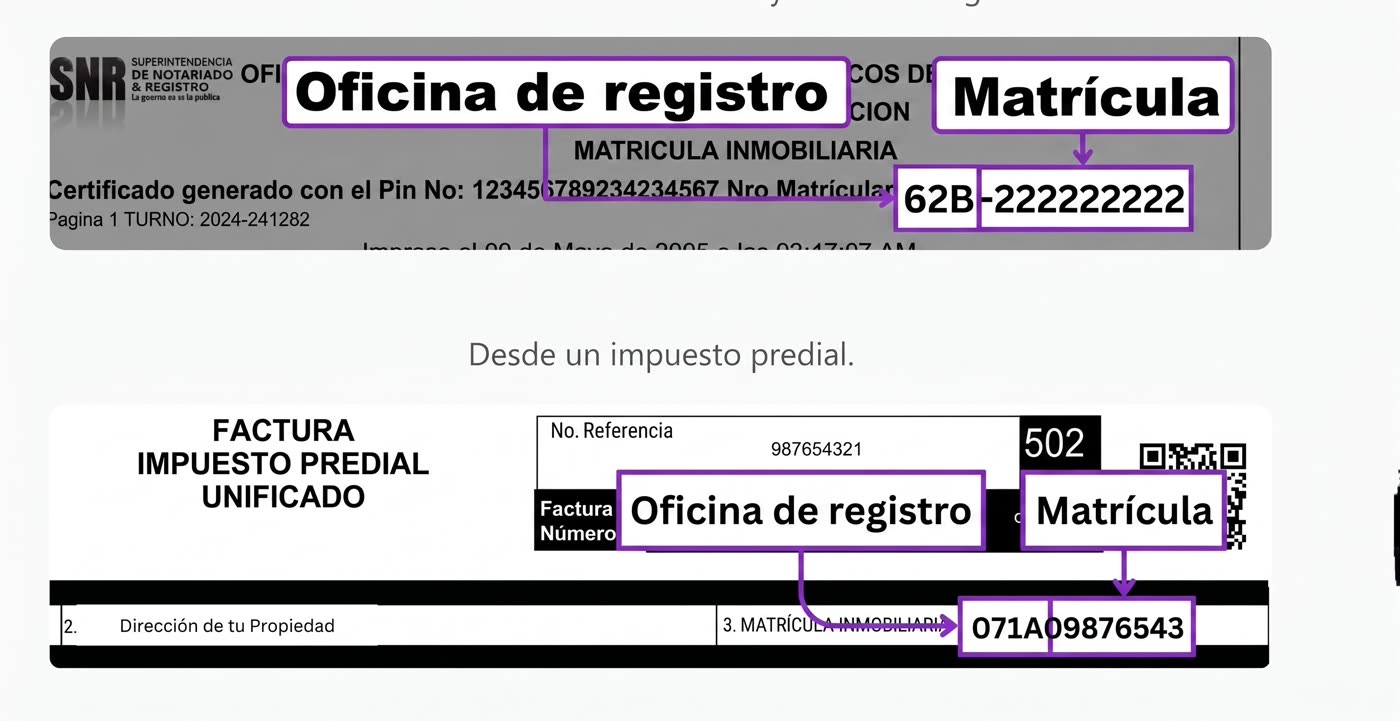
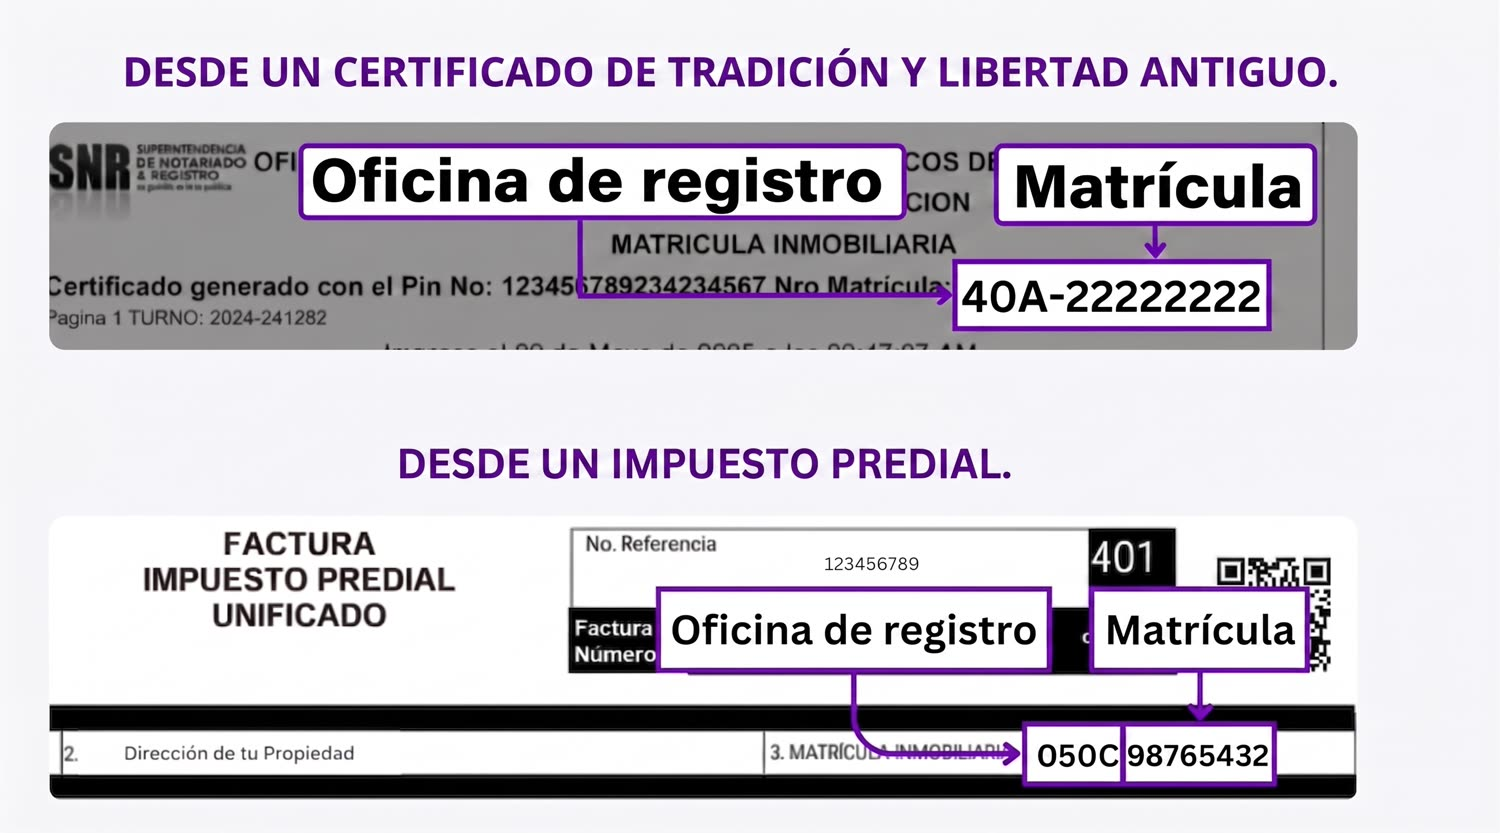
feat: nueva imagen de matricula + 'Antes de empezar' mas grande + saludo WhatsApp mas calido
- Imagen de la seccion '¿Como encuentro mi matricula?' reemplazada por la version nueva del cliente.
- Eyebrow 'Antes de empezar' de 12px a text-lg/xl (mas grande).
- Saludo del bot de WhatsApp mas amable y guia (referencia CTL- + link al sitio).

diff --git a/app/page.tsx b/app/page.tsx
@@ -137,7 +137,7 @@ export default function Home() {
       <section id="comprar" className="scroll-mt-24 border-t border-[var(--border)] bg-white py-14 lg:py-20">
         <div className="mx-auto flex max-w-6xl flex-col gap-12 px-4 sm:px-6">
           <div className="mx-auto flex max-w-3xl flex-col items-center gap-4 text-center">
-            <p className="font-bold text-[12px] tracking-widest uppercase text-[var(--brand)]">Antes de empezar</p>
+            <p className="text-lg font-extrabold uppercase tracking-widest text-[var(--brand)] sm:text-xl">Antes de empezar</p>
             <h2 className="text-3xl font-extrabold tracking-tight text-[var(--foreground)] sm:text-4xl">¿Cómo encuentro mi matrícula inmobiliaria?</h2>
             <p className="max-w-2xl text-[17px] leading-relaxed text-[var(--muted)]">
               Puedes ubicarla en un <b className="text-[var(--foreground)]">certificado de tradición y libertad anterior</b> o en tu <b className="text-[var(--foreground)]">factura de impuesto predial</b>. Busca el código de la oficina de registro y el número de matrícula, así:
@@ -145,8 +145,8 @@ export default function Home() {
             <img
               src="/como-encuentro-matricula.jpg"
               alt="Cómo ubicar la oficina de registro y la matrícula inmobiliaria en un certificado de tradición o en una factura de impuesto predial"
-              width={1400}
-              height={721}
+              width={1500}
+              height={833}
               loading="lazy"
               className="mt-2 h-auto w-full rounded-2xl border border-[var(--border)] shadow-md"
             />

diff --git a/app/api/whatsapp/webhook/route.ts b/app/api/whatsapp/webhook/route.ts
@@ -104,8 +104,8 @@ async function procesar(raw: string) {
     if (!row || !row.cert_pdf) {
       console.error(`[wa webhook] sin certificado autorizado para ${from}${ref ? ` (ref ${ref})` : ''}`);
       await enviarTexto(from, ref
-        ? 'No encuentro un certificado a nombre de este número de WhatsApp con esa referencia. Escríbenos desde el mismo número que registraste al pagar 🙏'
-        : 'Hola 👋 No veo un certificado asociado a este número. Si ya pagaste, escríbenos desde el mismo número de WhatsApp que pusiste al comprar.');
+        ? 'Mmm, no encuentro un certificado con esa referencia a nombre de este número 🤔. Verifica que sea la referencia de tu correo de confirmación (empieza por CTL-) y escríbeme desde el mismo número de WhatsApp con el que pagaste 🙏'
+        : '¡Hola! 👋 Soy el asistente de Certitradición 💜 Aún no veo un certificado a nombre de este número. Si ya hiciste tu pedido, envíame la referencia (empieza por CTL-) que está en tu correo de confirmación, o escríbeme desde el mismo número con el que pagaste. ¿Aún no lo solicitas? 👉 certitradicion.com');
       continue;
     }
     const cdKey = `${from}:${row.reference}`;
